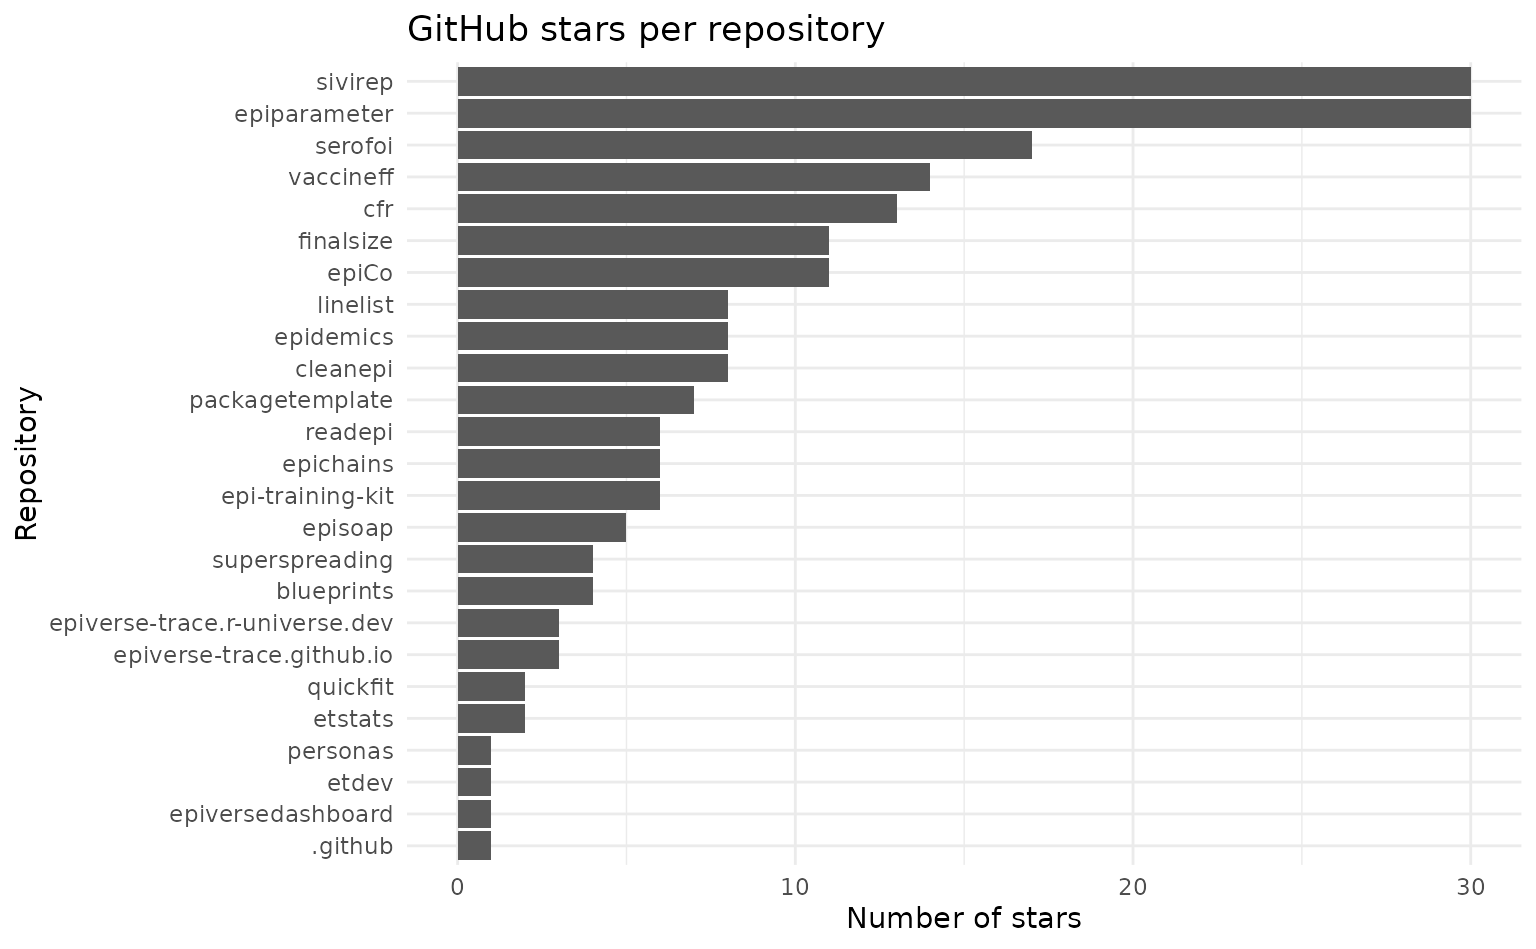
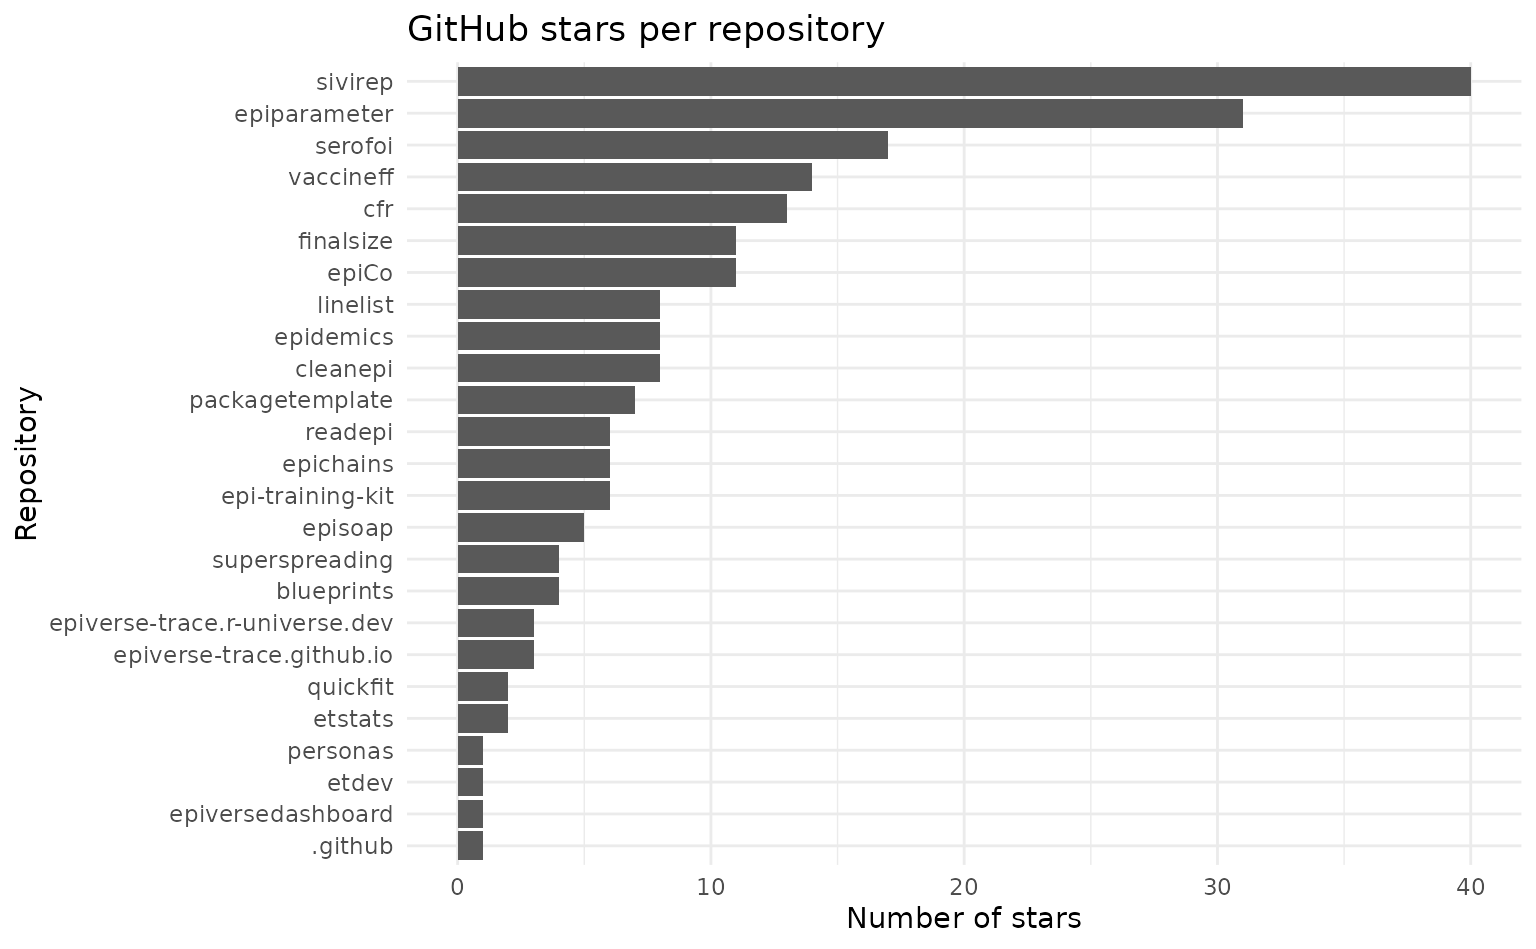
Deploying to gh-pages from @ epiverse-trace/etstats@1c26283a0996e2445e7bf2bd0f9d8bab70cd71be 🚀

diff --git a/articles/cran-statistics.html b/articles/cran-statistics.html
@@ -74,7 +74,7 @@
 
       <h1>CRAN statistics</h1>
             
-            <h4 data-toc-skip class="date">2024-10-21</h4>
+            <h4 data-toc-skip class="date">2024-10-22</h4>
       
       <small class="dont-index">Source: <a href="https://github.com/epiverse-trace/etstats/blob/main/vignettes/cran-statistics.Rmd" class="external-link"><code>vignettes/cran-statistics.Rmd</code></a></small>
       <div class="d-none name"><code>cran-statistics.Rmd</code></div>
@@ -84,8 +84,8 @@
     
 <p>We currently have 8 Epiverse-TRACE packages on CRAN:</p>
 <ul>
-<li><a href="https://cran.r-project.org/package=epichains" class="external-link">epichains</a></li>
 <li><a href="https://cran.r-project.org/package=cleanepi" class="external-link">cleanepi</a></li>
+<li><a href="https://cran.r-project.org/package=epichains" class="external-link">epichains</a></li>
 <li><a href="https://cran.r-project.org/package=cfr" class="external-link">cfr</a></li>
 <li><a href="https://cran.r-project.org/package=linelist" class="external-link">linelist</a></li>
 <li><a href="https://cran.r-project.org/package=epiCo" class="external-link">epiCo</a></li>
@@ -93,11 +93,11 @@
 <li><a href="https://cran.r-project.org/package=ColOpenData" class="external-link">ColOpenData</a></li>
 <li><a href="https://cran.r-project.org/package=finalsize" class="external-link">finalsize</a></li>
 </ul>
-<p>In total, Epiverse-TRACE packages on CRAN have been downloaded 30976
+<p>In total, Epiverse-TRACE packages on CRAN have been downloaded 31067
 times.</p>
 <p>Below is a visualization of the breakdown of this grand total by
 package over time.</p>
-<p><img src="cran-statistics_files/figure-html/unnamed-chunk-7-1.png" alt="Cumulative downloads of Epiverse-TRACE on CRAN (epichains, cleanepi, cfr, linelist, epiCo, numberize, ColOpenData, finalsize)" width="768"></p>
+<p><img src="cran-statistics_files/figure-html/unnamed-chunk-7-1.png" alt="Cumulative downloads of Epiverse-TRACE on CRAN (cleanepi, epichains, cfr, linelist, epiCo, numberize, ColOpenData, finalsize)" width="768"></p>
 <table class="table">
 <thead><tr class="header">
 <th align="left">package</th>
@@ -110,55 +110,55 @@ package over time.</p>
 <td align="left">finalsize</td>
 <td align="right">260</td>
 <td align="right">2881</td>
-<td align="right">2758</td>
+<td align="right">2765</td>
 </tr>
 <tr class="even">
 <td align="left">linelist</td>
 <td align="right">3712</td>
 <td align="right">4898</td>
-<td align="right">6906</td>
+<td align="right">6916</td>
 </tr>
 <tr class="odd">
 <td align="left">cfr</td>
 <td align="right">NA</td>
 <td align="right">364</td>
-<td align="right">4346</td>
+<td align="right">4352</td>
 </tr>
 <tr class="even">
 <td align="left">ColOpenData</td>
 <td align="right">NA</td>
 <td align="right">NA</td>
-<td align="right">284</td>
+<td align="right">289</td>
 </tr>
 <tr class="odd">
 <td align="left">cleanepi</td>
 <td align="right">NA</td>
 <td align="right">NA</td>
-<td align="right">1118</td>
+<td align="right">1121</td>
 </tr>
 <tr class="even">
 <td align="left">epiCo</td>
 <td align="right">NA</td>
 <td align="right">NA</td>
-<td align="right">778</td>
+<td align="right">781</td>
 </tr>
 <tr class="odd">
 <td align="left">epichains</td>
 <td align="right">NA</td>
 <td align="right">NA</td>
-<td align="right">86</td>
+<td align="right">108</td>
 </tr>
 <tr class="even">
 <td align="left">numberize</td>
 <td align="right">NA</td>
 <td align="right">NA</td>
-<td align="right">2585</td>
+<td align="right">2620</td>
 </tr>
 <tr class="odd">
 <td align="left">Total</td>
 <td align="right">3972</td>
 <td align="right">8143</td>
-<td align="right">18861</td>
+<td align="right">18952</td>
 </tr>
 </tbody>
 </table></main>

diff --git a/articles/github-statistics.html b/articles/github-statistics.html
@@ -74,7 +74,7 @@
 
       <h1>GitHub statistics</h1>
             
-            <h4 data-toc-skip class="date">2024-10-21</h4>
+            <h4 data-toc-skip class="date">2024-10-22</h4>
       
       <small class="dont-index">Source: <a href="https://github.com/epiverse-trace/etstats/blob/main/vignettes/github-statistics.Rmd" class="external-link"><code>vignettes/github-statistics.Rmd</code></a></small>
       <div class="d-none name"><code>github-statistics.Rmd</code></div>
@@ -94,8 +94,8 @@ followers.</p>
 <div class="section level3">
 <h3 id="totals">Totals<a class="anchor" aria-label="anchor" href="#totals"></a>
 </h3>
-<p>In total, we have 202 stars across all Epiverse-TRACE packages. These
-stars come from 122 unique users.</p>
+<p>In total, we have 213 stars across all Epiverse-TRACE packages. These
+stars come from 132 unique users.</p>
 <p><img src="github-statistics_files/figure-html/unnamed-chunk-5-1.png" width="768"></p>
 </div>
 <div class="section level3">
@@ -120,7 +120,7 @@ stars come from 122 unique users.</p>
 <td align="left">epiparameter</td>
 <td align="right">8</td>
 <td align="right">9</td>
-<td align="right">13</td>
+<td align="right">14</td>
 </tr>
 <tr class="odd">
 <td align="left">epiverse-trace.r-universe.dev</td>
@@ -240,7 +240,7 @@ stars come from 122 unique users.</p>
 <td align="left">sivirep</td>
 <td align="right">0</td>
 <td align="right">21</td>
-<td align="right">9</td>
+<td align="right">19</td>
 </tr>
 <tr class="odd">
 <td align="left">vaccineff</td>
@@ -264,7 +264,7 @@ stars come from 122 unique users.</p>
 <td align="left">Total</td>
 <td align="right">24</td>
 <td align="right">89</td>
-<td align="right">89</td>
+<td align="right">100</td>
 </tr>
 </tbody>
 </table>
